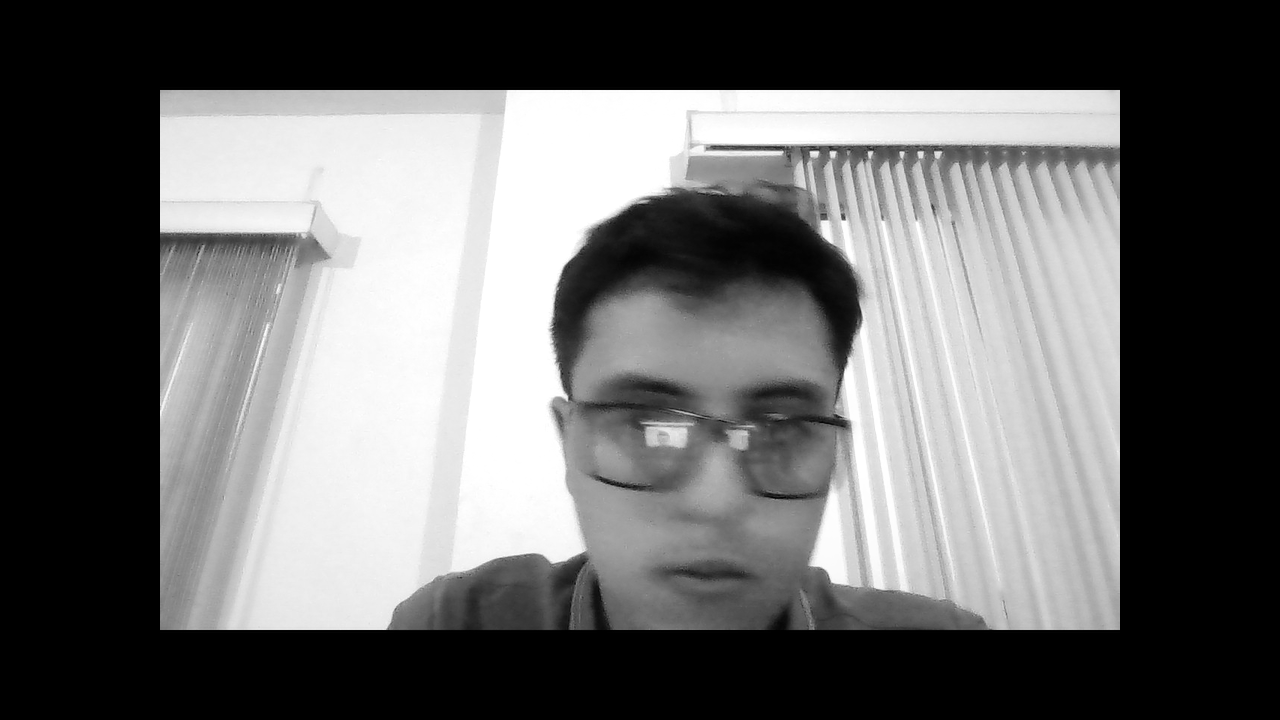
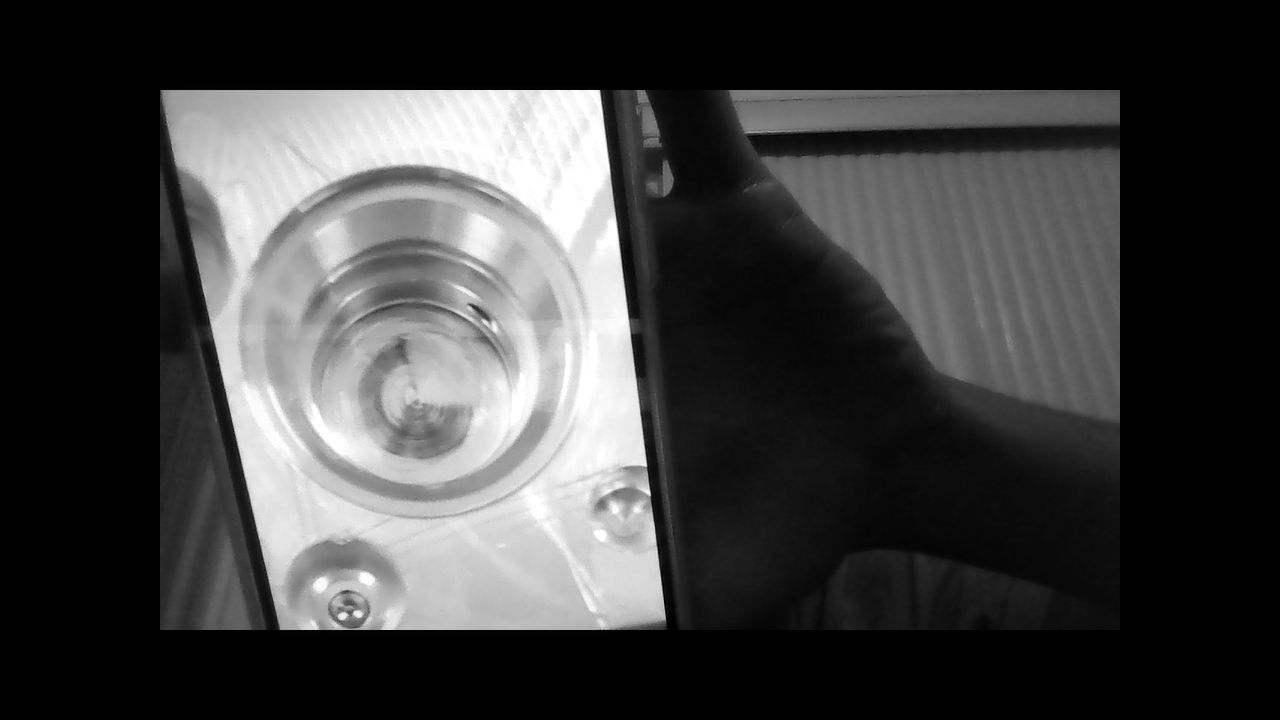
Se agrego: Funcion de analisis de imagenes a lib

diff --git a/lib/analisys.py b/lib/analisys.py
@@ -1,0 +1,49 @@
+# Importar las librerias necesarias
+from keras.models import load_model
+from PIL import Image, ImageOps
+from pathlib import Path
+import cv2 as cv
+import numpy as np
+
+# Inicio del codigo
+np.set_printoptions(suppress=True)
+
+
+# Declarar la ruta del archivo a trabajar
+ROOT = Path(__file__).resolve().parent.parent
+MODEL_PATH = ROOT / "models" / "regco" / "regco_model.h5"
+LABELS_PATH = ROOT / "models" / "regco" / "labels.txt"
+with open(LABELS_PATH, "r") as f:
+    etiquetas = f.readlines()
+
+# Abrir el modelo de IA y sus etiquetas
+modelo = load_model(MODEL_PATH, compile=False)
+etiquetas = open(LABELS_PATH, 'r').readlines()
+
+# Funcion para el analisis de las iamagenes
+def analisis(img):
+    
+    data = np.ndarray(shape=(1, 224, 224, 3), dtype = np.float32)
+    
+    recorte_pil = Image.fromarray(img)
+    recorte = recorte_pil.convert("L")
+    
+    size = (224, 224)
+    recorte = ImageOps.fit(recorte, size, Image.Resampling.LANCZOS)
+    
+    recorte_array = np.asarray(recorte)
+    
+    normalized_recorte_array = (recorte_array.astype(np.float32) / 127.5) - 1
+    # normalized_recorte_array = np.expand_dims(normalized_recorte_array, axis=-1)
+    
+    recorte_3_canales = cv.cvtColor(normalized_recorte_array, cv.COLOR_GRAY2RGB)
+    
+    data[0] = recorte_3_canales
+    
+    
+    prediction = modelo.predict(data) # type: ignore
+    index = np.argmax(prediction)
+    class_name = etiquetas[index]
+    confidence_score = prediction[0][index]
+    
+    return class_name[2:], confidence_score

diff --git a/sample/sample2.py b/sample/sample2.py
@@ -1,5 +1,11 @@
+import sys
+import os
+sys.path.append(os.path.abspath(os.path.join(os.path.dirname(__file__), '..')))
+
+from lib import analisys
 import cv2 as cv
 import numpy as np
+
 
 cap = cv.VideoCapture(0)
 if not cap.isOpened():
@@ -21,7 +27,8 @@ while True:
     if key == ord('q'):
         break
     elif key == ord('s'):
-        cv.imwrite("Captura.png", gray) 
+        cv.imwrite("Captura.png", gray)
+        analisys.analisis(gray)
     
     
 cap.release()

diff --git a/src/__init__.py b/src/__init__.py
@@ -1,1 +1,0 @@
-print("Hola mundo")